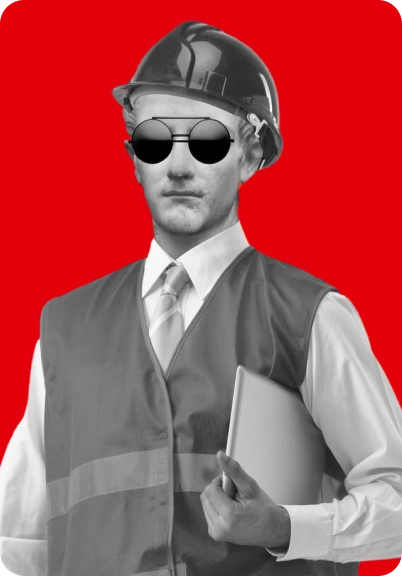
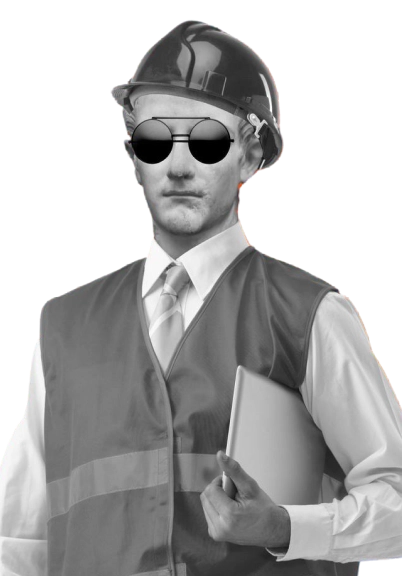
feat: add desk about

diff --git a/css/style.css b/css/style.css
@@ -6,7 +6,7 @@
 	--color-white: #ffffff;
 	--color-milk-white: #f7f5f5;
 	--color-red: #e3000b;
-	--color-grey: #616161;
+	--color-grey: #606060;
 	--color-light-dark: #171212;
 	--font-brotesk: 'Brotesk', sans-serif;
 	--font-dmsans: 'DM Sans', sans-serif;
@@ -24,7 +24,7 @@ body {
 /* ---------------------- */
 [class*='__container'] {
 	max-width: 1400px;
-	padding-inline: 15px;
+	/* padding-inline: 15px; */
 	margin: 0 auto;
 }
 /* ---------------------- */
@@ -42,6 +42,40 @@ body {
 	display: flex;
 	flex-direction: column;
 	gap: 140px;
+}
+/* section */
+.section__header {
+	display: flex;
+	justify-content: space-between;
+	gap: 80px;
+	margin: 0 auto;
+	padding-bottom: 80px;
+	max-width: 1320px;
+}
+.section__title {
+	font-family: var(--font-transforma);
+	font-size: 24px;
+	line-height: 36px;
+	text-transform: uppercase;
+	color: var(--color-red);
+	min-width: 165px;
+}
+.section__title::before {
+	content: url('../images/section_title_icon.png');
+	position: relative;
+	bottom: -10px;
+	margin-right: 24px;
+	height: 34px;
+}
+.section__label {
+	font-size: 48px;
+	line-height: 1;
+}
+.section__description {
+	color: var(--color-grey);
+	font-size: 20px;
+	font-family: var(--font-darker);
+	line-height: 27px;
 }
 /* #endregion */
 /* #region UI */
@@ -109,8 +143,10 @@ body {
 .header__title {
 	font-family: var(--font-syne);
 	font-size: 60px;
+	line-height: 1;
 	letter-spacing: 0.5px;
 	text-transform: uppercase;
+	padding-top: 20px;
 }
 
 .hero__content {
@@ -121,15 +157,58 @@ body {
 	font-family: var(--font-transforma);
 	margin-bottom: 28px;
 }
-.hero__label{
+.hero__label {
 	font-size: 40px;
 	line-height: 48px;
 	max-width: 966px;
-
 }
 /* #endregion */
 /* #region ABOUT */
 .about {
+}
+.about__container {
+	max-width: 1320px;
+}
+
+.about__description {
+	max-width: 400px;
+}
+.about__content {
+	display: flex;
+	justify-content: space-between;
+	gap: 20px;
+}
+.about__list {
+	display: grid;
+	grid-template-columns: repeat(2, 1fr);
+	gap: 20px;
+}
+.about__item:nth-child(1) {
+	grid-column: span 2;
+	max-height: 179px;
+	padding: 0;
+}
+
+.about__item {
+	border-radius: 24px;
+	background-color: var(--color-milk-white);
+	padding: 31px 20px;
+}
+.about__item--title {
+	color: var(--color-red);
+	font-size: 68px;
+	line-height: 48px;
+	margin-bottom: 20px;
+}
+.about__item--text {
+	font-size: 34px;
+	line-height: 48px;
+}
+.about__main-img {
+	background-color: var(--color-red);
+	flex-basis: 402px;
+	border-radius: 24px;
+	overflow: hidden;
 }
 /* #endregion */
 /* #region CASE */

diff --git a/index.html b/index.html
@@ -64,7 +64,7 @@
 				<!-- #region ABOUT -->
 				<section class="section__about about">
 					<div class="about__container">
-						<header class="about__header">
+						<header class="about__header section__header">
 							<h4 class="about__title section__title">Про нас</h4>
 							<h3 class="about__label section__label">
 								Індивідуальний підхід та гнучкість для створення цифрових рішень
@@ -79,8 +79,8 @@
 							<ul class="about__list">
 								<li class="about__item">
 									<img
-										src=""
-										alt=""
+										src="./images/about__horizontal.webp"
+										alt="keyboard and hands"
 										class="about__item--img" />
 								</li>
 								<li class="about__item">
@@ -102,8 +102,8 @@
 							</ul>
 							<picture class="about__main-img">
 								<img
-									src=""
-									alt="" />
+									src="./images/about_main_worker.webp"
+									alt="our best worker" />
 							</picture>
 						</div>
 					</div>
@@ -113,7 +113,7 @@
 				<!-- #region CASE -->
 				<section class="section__case case">
 					<div class="case__container">
-						<header class="case__header">
+						<header class="case__header section__header">
 							<h4 class="case__title section__title">кейси</h4>
 							<h3 class="case__label section__label">
 								Реалізовані ідеї наших клієнтів
